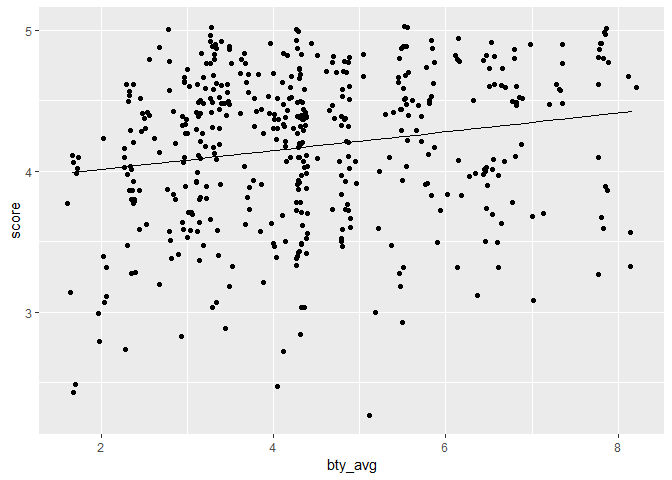
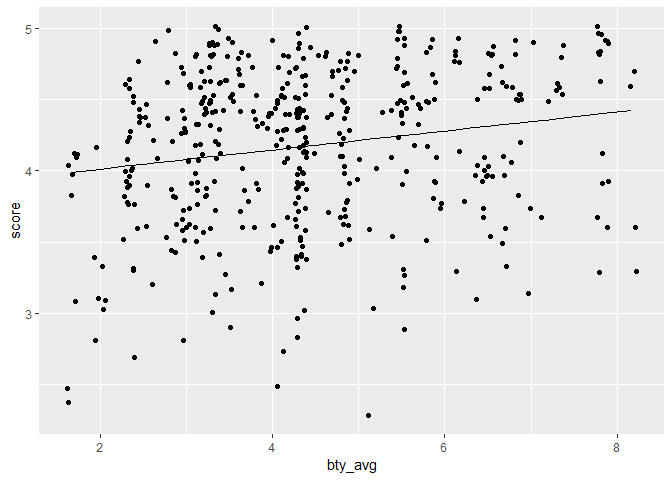
model 5

diff --git a/vignettes/005_model.md b/vignettes/005_model.md
@@ -121,7 +121,7 @@ sebelumnya.
 ``` r
 ggplot(evals, aes(x = bty_avg, y = score)) +
   geom_jitter() +
-  labs(title = "nilai kelas")
+  labs(title = "jitter")
 ```
 
 ![](005_model_files/figure-gfm/unnamed-chunk-4-1.png)<!-- -->
@@ -215,6 +215,8 @@ ggplot(model1_vals_broom, aes(x = bty_avg, y = score)) +
 ![](005_model_files/figure-gfm/unnamed-chunk-7-1.png)<!-- -->
 
 ``` r
+  # geom_pointrange(aes(ymax = bty_avg, ymin = .fitted)) // mengetahui residual
+
 # menggunakan paket modelr
 library(modelr)
 model1_vals_modelr <- 
@@ -298,7 +300,7 @@ value`\!
 ``` r
 model2 <- lm(score~age, data = evals)
 
-ggplot(evals, aes(x = age, y = score)) +
+ggplot(model2, aes(x = age, y = score)) +
   geom_jitter() +
   geom_smooth(method = "lm")
 ```
@@ -317,7 +319,8 @@ evals %>%
   gather_predictions(model1, model2) %>% 
   ggplot(aes(x = pred, y = score, colour = model)) +
   geom_jitter() +
-  geom_smooth(method = "lm", se = FALSE)
+  geom_smooth(method = "lm", se = FALSE) + 
+  facet_wrap(~model, scales = "free")
 ```
 
 ![](005_model_files/figure-gfm/unnamed-chunk-11-1.png)<!-- -->
